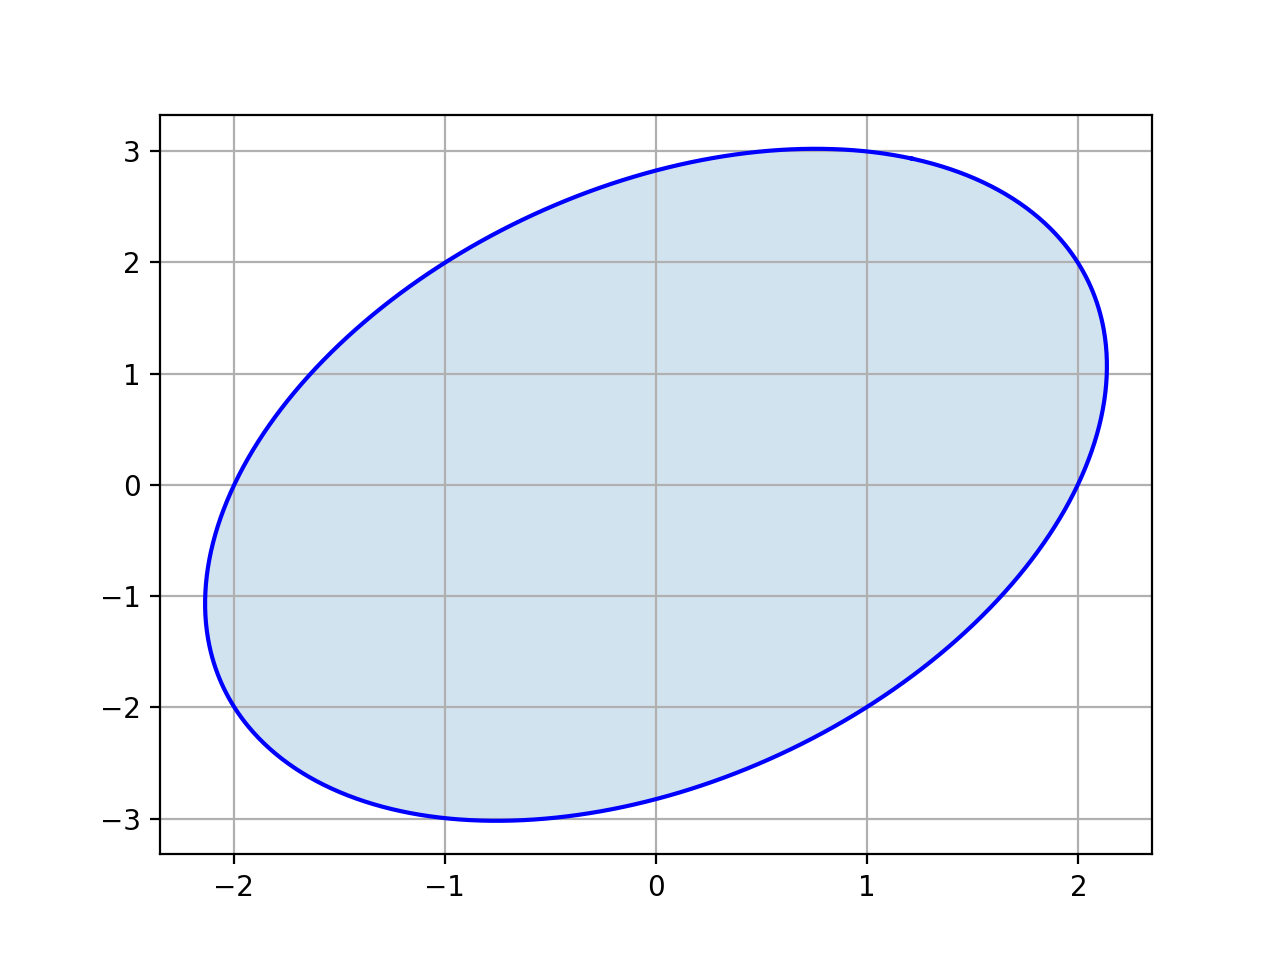
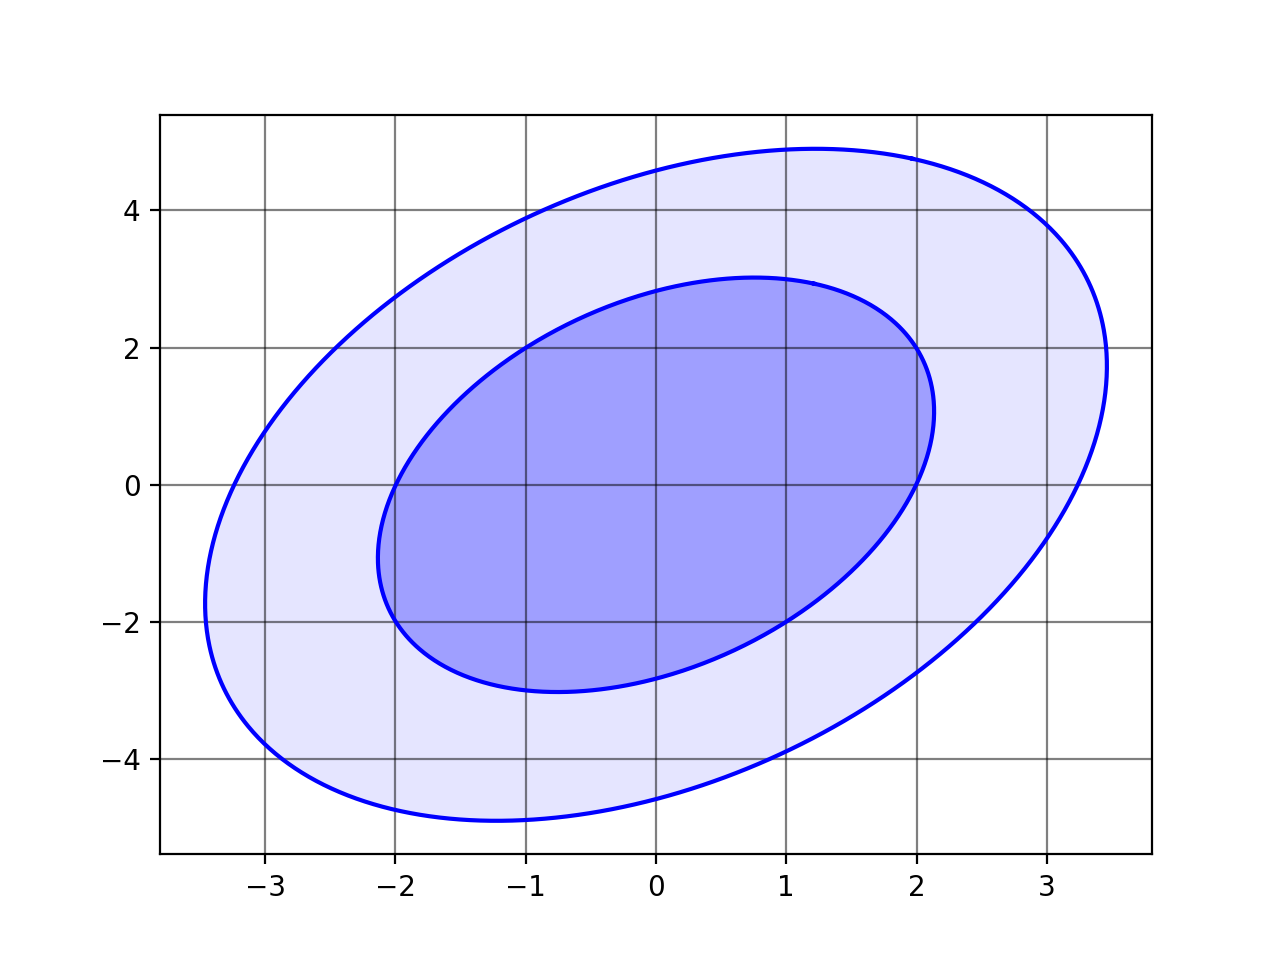
modified:   README.md 	modified:   data/fig2.png

diff --git a/README.md b/README.md
@@ -27,8 +27,9 @@ import numpy as np
 C = np.array([[2, 1],[1, 4]])
 
 fig,ax = plt.subplots()
-ax.grid(True)
-plot_ellipse(x_cent=0, y_cent=0, cov=C, mass_level=0.68, fill=True, ax=ax, fill_kwargs={'alpha':0.2})
+ax.grid(True, color='k', alpha=0.5)
+plot_ellipse(x_cent=0, y_cent=0, cov=C, mass_level=0.95, fill=True, ax=ax, fill_kwargs={'alpha':0.1,'c':'b'})
+plot_ellipse(x_cent=0, y_cent=0, cov=C, mass_level=0.68, fill=True, ax=ax, fill_kwargs={'alpha':0.3,'c':'b'})
 plt.show()
 ```
 <img src="data/fig2.png" width=300px />
